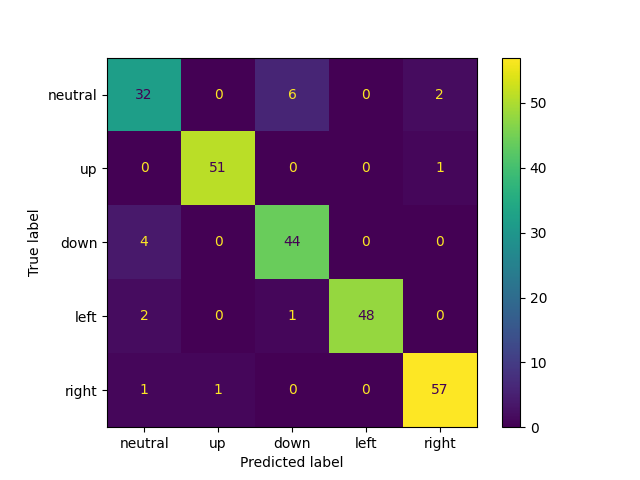
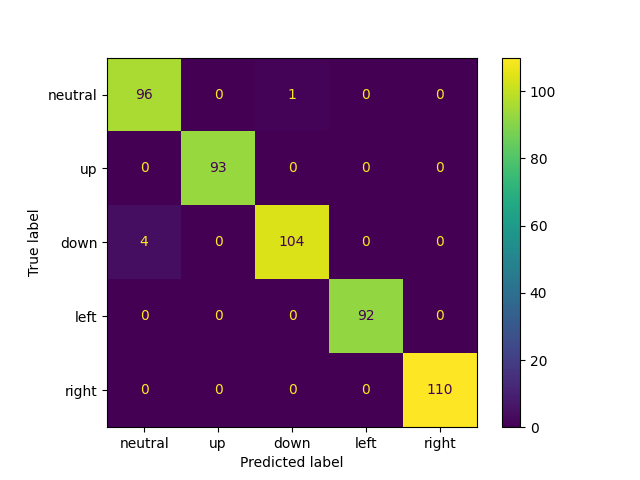
Trained model with 16,32,64 conv filters

diff --git a/faceTrain.py b/faceTrain.py
@@ -25,7 +25,7 @@ face_ds = keras.utils.image_dataset_from_directory(
     image_size=(50, 100),
     shuffle=True,
     seed=3,
-    validation_split=0.1,
+    validation_split=0.20,
     subset="both"
 )
 train_ds, validation_ds = face_ds
@@ -45,20 +45,15 @@ input_shape=(50, 100, 3) # IMG_SIZE x IMG_SIZE RGB
 model = Sequential() 
 model.add(data_augment) # augmented only during model.fit
 model.add(data_rescale) # rescale data in model
-model.add(Conv2D(   
-     32, 
-     kernel_size = (3, 3),
-     input_shape=input_shape,
-     activation='relu'
-))
+model.add(Conv2D(16, kernel_size = (3, 3), input_shape=input_shape,activation='relu'))
+model.add(Conv2D(32, (3, 3), activation = 'relu')) 
 model.add(Conv2D(64, (3, 3), activation = 'relu')) 
 model.add(MaxPooling2D(pool_size = (2,2))) # 2x2 pooling, probably don't need 
 model.add(Dropout(0.25)) 
 model.add(Flatten()) 
-model.add(Dense(256, activation = 'relu')) 
-model.add(Dropout(0.5)) 
-model.add(Dense(256, activation = 'relu')) 
-model.add(Dropout(0.5)) 
+model.add(Dense(512, activation = 'relu')) 
+model.add(Dropout(0.1)) 
+model.add(Dense(128, activation = 'relu')) 
 model.add(Dense(5, activation = 'softmax'))
 
 model.compile(
@@ -71,7 +66,7 @@ model.compile(
 callback = keras.callbacks.EarlyStopping(
     monitor="val_loss",
     min_delta=0,
-    patience=15,
+    patience=50,
     verbose=0,
     mode="auto",
     baseline=None,
@@ -82,7 +77,7 @@ history = model.fit(
     train_ds,
     validation_data = validation_ds,
     batch_size = 32,
-    epochs = 5000, 
+    epochs = 6000, 
     verbose = 1,
     shuffle = True,
     callbacks=[callback]
